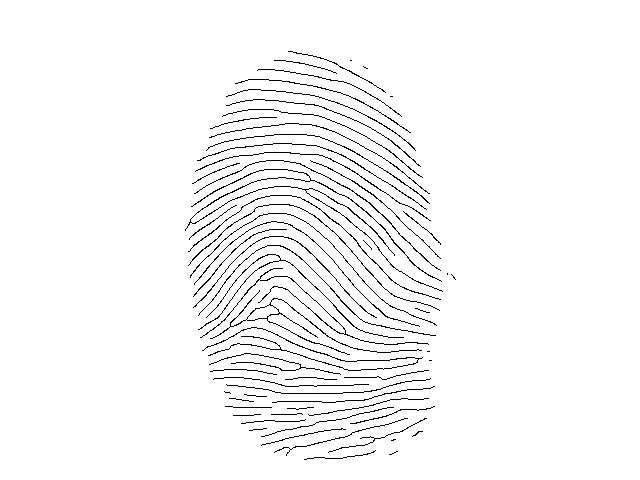
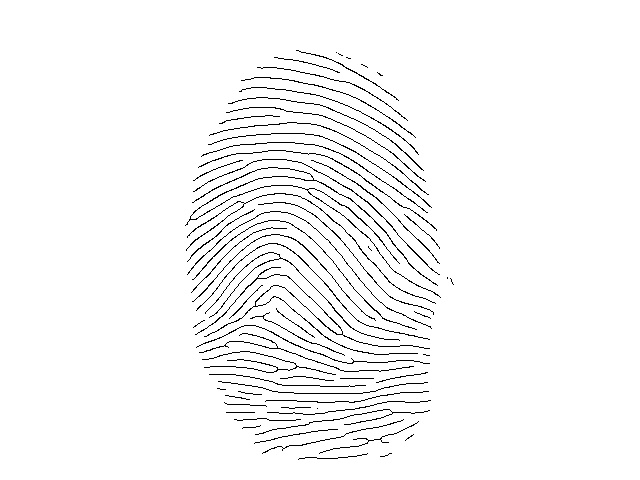
matching 1

Changed region(s): [[0.2812, 0.0938, 0.6875, 0.9688]]

diff --git a/test_file.py b/test_file.py
@@ -69,23 +69,29 @@ class MyTest:
 		#dst = cv2.warpAffine(img2,M,(cols,rows))
 		#dst = 255 - dst
 		self.rotated = img2
+		if self.rotated.all() == self.image.all(): print "PERFECT MATCH"
+		self.checker1 = 0
+		self.checker2 = 0
 		#self.rotated = dst
 
 	def original_stuff(self):
 
-		img2 = self.image
+		img2 = self.image.copy()
 		angle,xc,yc = correctrotation(img2)
 
 		img2 = 255 - img2
+		self.checker1 = img2.copy()
 		rows, cols = img2.shape
-		M = cv2.getRotationMatrix2D((cols/2,rows/2),angle,1)
+		M = cv2.getRotationMatrix2D((cols/2,rows/2),0,1)
 		dst = cv2.warpAffine(img2,M,(cols,rows))
 		dst = 255 - dst
-		self.image = dst
+		imgd = dst.copy()
+		print("original angle")
+		print angle
 
-		cv2.imwrite("1.jpg", self.image)
+		cv2.imwrite("1.jpg", imgd)
 
-		image, m, orientations = preprocess(self.image)
+		image, m, orientations = preprocess(imgd)
 		for i in range(image.shape[0]):
 			for j in range(image.shape[1]):
 				if image[i][j] > 50: image[i][j] = 1
@@ -111,23 +117,24 @@ class MyTest:
 
 	def rotated_stuff(self):
 
-		cv2.imwrite("rot.jpg", self.rotated)
-		img2 = cv2.imread("rot.jpg", 0)
+		#cv2.imwrite("rot.jpg", self.rotated)
+		#img2 = cv2.imread("rot.jpg", 0)
+		img2 = self.rotated.copy()
 		angle,xc,yc = correctrotation(img2)
-
-		if angle<0:
-			angle = -angle
-
+		print("rotation angle")
+		print angle
+		if img2.all() == self.image.all() : "INTER PERFECTMATCH"
 		img2 = 255 - img2
+		if img2.all() == self.checker1.all() : "PERFECT MATCH AGAIN"
 		rows, cols = img2.shape
-		M = cv2.getRotationMatrix2D((cols/2,rows/2),-angle,1)
+		M = cv2.getRotationMatrix2D((cols/2,rows/2),0,1)
 		dst = cv2.warpAffine(img2,M,(cols,rows))
 		dst = 255 - dst
-		self.rotated = dst
+		rotd = dst.copy()
 
 
-		cv2.imwrite("2.jpg", self.rotated)
-		image, m, orientations = preprocess(self.rotated)
+		cv2.imwrite("2.jpg", rotd)
+		image, m, orientations = preprocess(rotd)
 		for i in range(image.shape[0]):
 			for j in range(image.shape[1]):
 				if image[i][j] > 50: image[i][j] = 1

diff --git a/rotation.py b/rotation.py
@@ -16,7 +16,9 @@ def correctrotation(image):
 	num = abs(mat[0][0] - mat[1][0])
 	den = abs(mat[0][1] - mat[1][1])
 	angle = np.arctan(num/den)*180/np.pi
-
+	print mat
+	print num
+	print den
 	if(mat[0][1] < mat[1][1]): return angle-90, (mat[0][0]+mat[1][0])/2, (mat[0][1]+mat[1][1])/2
 	else: return 90-angle, (mat[0][0]+mat[1][0])/2, (mat[0][1]+mat[1][1])/2
 

diff --git a/test.py b/test.py
@@ -9,7 +9,7 @@ from test_file import MyTest, get_most_similar, match_level
 # image = cv2.imread("enh.jpg", 0)
 
 image = cv2.imread("first/101_2.tif",0)
-img2 = cv2.imread("first/101_2.tif",0)
+img2 = cv2.imread("first/101_3.tif",0)
 # image, m, orientations = preprocess(image)
 
 # for i in range(image.shape[0]):
